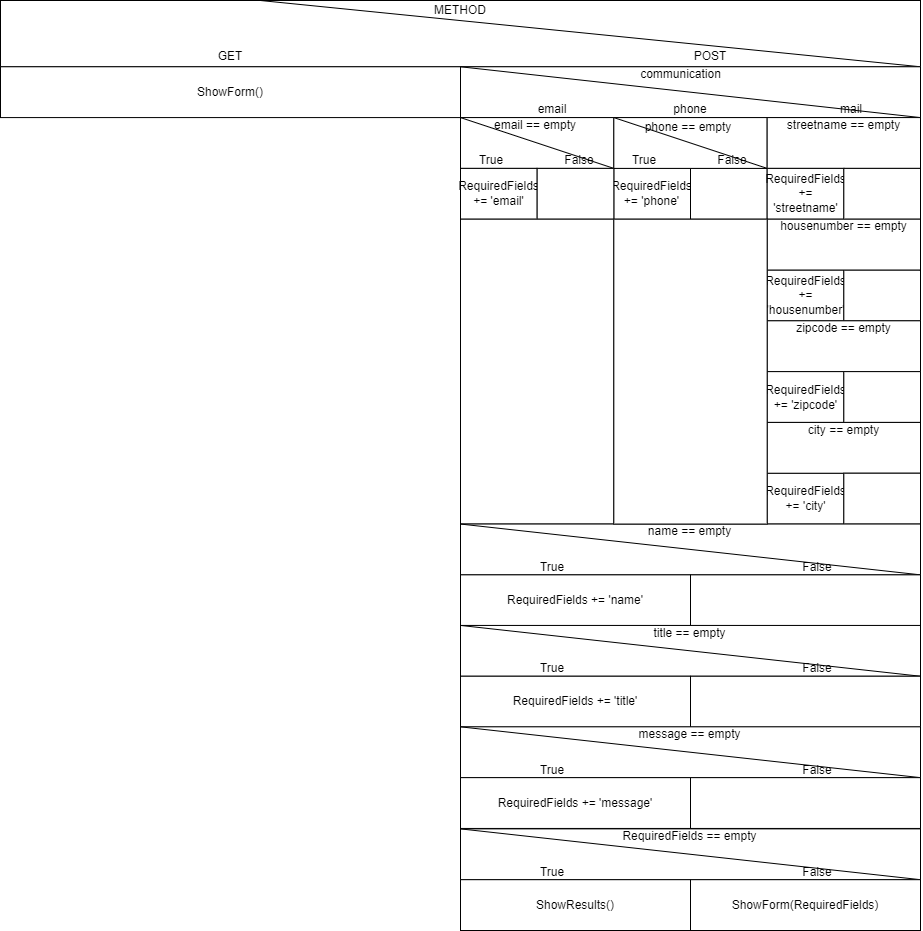
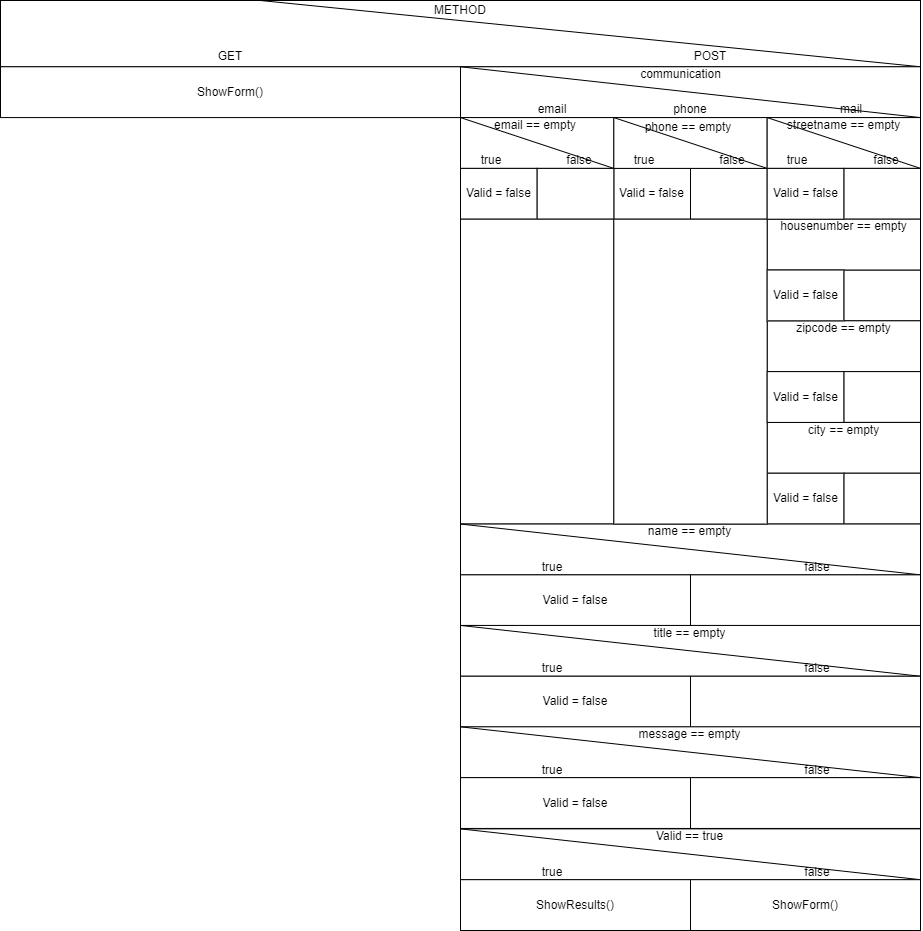
Change diagram and remove RequiredFields #5

diff --git a/CSS/stylesheet.css b/CSS/stylesheet.css
@@ -92,3 +92,8 @@ p
 {
     width: 400px;
 }
+
+.form-group .error
+{
+    color: red;
+}

diff --git a/contact.php b/contact.php
@@ -31,9 +31,9 @@
         $titleErr = $nameErr = $emailErr = $phonenumberErr = $streetnameErr = 
         $housenumberErr = $zipcodeErr = $cityErr = $communcationPrefenceErr = $messageErr = "";
         $valid = false;
-        $RequiredFields = "";
         
         if ($_SERVER['REQUEST_METHOD'] == 'POST') {
+            $valid = true;
             // validate the 'POST' data
                 $title = $_POST['title'];
                 $name = $_POST['name'];
@@ -53,7 +53,6 @@
                         {
                             $emailErr = "Email is required";
                             $valid = false;
-                            $RequiredFields.= "email, ";
                         }
                         break;
                     case "phone":
@@ -61,7 +60,6 @@
                         {
                             $phonenumberErr = "Phone number is required";
                             $valid = false;
-                            $RequiredFields.= "phonenumber, ";
                         }
                         break;
                     case "mail":
@@ -69,37 +67,34 @@
                         {
                             $streetnameErr = "Street name is required";
                             $valid = false;
-                            $RequiredFields.= "streetname, ";
                         }
                         if($housenumber == "")
                         {
                             $housenumberErr = "House number is required";
                             $valid = false;
-                            $RequiredFields.= "housenumber, ";
                         }
                         if($zipcode == "")
                         {
                             $zipcodeErr = "Zip code is required";
                             $valid = false;
-                            $RequiredFields.= "zipcode, ";
                         }
                         if($city == "")
                         {
                             $cityErr = "City is required";
                             $valid = false;
-                            $RequiredFields.= "city, ";
                         }
                         break;
                 }
                 if($name == "")
                 {
-                    $RequiredFields.= "name, ";
+                    $nameErr = "Name is required";
+                    $valid = false;
                 }
                 if($message == "")
                 {
-                    $RequiredFields.= "message, ";
+                    $messageErr = "Message is required";
+                    $valid = false;
                 }
-                echo "RequiredFields: " . $RequiredFields;
             // ....   
          }
     ?>
@@ -118,6 +113,9 @@
                     <option value="Mr">Mr.</option>
                     <option value="Mrs" <?php if($title == "Mrs"){?>selected<?php }?>>Mrs</option>
                 </select>
+                <?php if($titleErr != ""){?>
+                    <span class="error">* <?php echo $titleErr; ?></span>
+                <?php }?>
             </div>
 
             <!-- Text input-->
@@ -125,6 +123,9 @@
                 <label class="control-label" for="name">Full name</label>
                 <input id="name" name="name" type="text" placeholder="Full name" class="form-control" value="<?php echo $name?>">  </input>
 
+                <?php if($nameErr != ""){?>
+                    <span class="error">* <?php echo $nameErr; ?></span>
+                <?php }?>
             </div>
 
             <!-- Text input-->
@@ -132,13 +133,19 @@
                 <label class="control-label" for="email">Email</label>
                 <input id="email" name="email" type="text" placeholder="Example@email.com" class="form-control" value="<?php echo $email?>">
 
+                <?php if($emailErr != ""){?>
+                    <span class="error">* <?php echo $emailErr; ?></span>
+                <?php }?>
             </div>
 
             <!-- Text input-->
             <div class="form-group">
                 <label class="control-label" for="phonenumber">Phone number</label>
-                <input id="phonenumber" name="phonenumber" type="text" placeholder="+31612345678" class="form-control" value="<?php echo $phonenumber?>"
-                   >
+                <input id="phonenumber" name="phonenumber" type="text" placeholder="+31612345678" class="form-control"
+                 value="<?php echo $phonenumber?>">
+                <?php if($phonenumberErr != ""){?>
+                    <span class="error">* <?php echo $phonenumberErr; ?></span>
+                <?php }?>
 
             </div>
 
@@ -147,12 +154,19 @@
                 <label class="control-label" for="streetname">Streetname</label>
                 <input id="streetname" name="streetname" type="text" placeholder="Streetname" class="form-control" value="<?php echo $streetname?>">
 
+                <?php if($streetnameErr != ""){?>
+                    <span class="error">* <?php echo $streetnameErr; ?></span>
+                <?php }?>
             </div>
 
             <!-- Text input-->
             <div class="form-group">
                 <label class="control-label" for="housenumber">nr. + addition</label>
                 <input id="housenumber" name="housenumber" type="text" placeholder="123 a" class="form-control" value="<?php echo $housenumber?>">
+
+                <?php if($housenumberErr != ""){?>
+                    <span class="error">* <?php echo $housenumberErr; ?></span>
+                <?php }?>
             </div>
 
             <!-- Text input-->
@@ -160,6 +174,9 @@
                 <label class="control-label" for="zipcode">zipcode</label>
                 <input id="zipcode" name="zipcode" type="text" placeholder="1234AB" class="form-control" value="<?php echo $zipcode?>">
 
+                <?php if($zipcodeErr != ""){?>
+                    <span class="error">* <?php echo $zipcodeErr; ?></span>
+                <?php }?>
             </div>
 
             <!-- Text input-->
@@ -167,6 +184,9 @@
                 <label class="control-label" for="city">City</label>
                 <input id="city" name="city" type="text" placeholder="City" class="form-control" value="<?php echo $city?>">
 
+                <?php if($cityErr != ""){?>
+                    <span class="error">* <?php echo $cityErr; ?></span>
+                <?php }?>
             </div>
 
             <!-- Multiple Radios -->
@@ -197,6 +217,10 @@
             <div class="form-group">
                 <label class="control-label" for="message">Message</label>
                 <textarea id="message" name="message" class="form-control" placeholder="Message"><?php echo $message?></textarea>
+
+                <?php if($messageErr != ""){?>
+                    <span class="error">* <?php echo $messageErr; ?></span>
+                <?php }?>
             </div>
 
             <!-- Button -->
